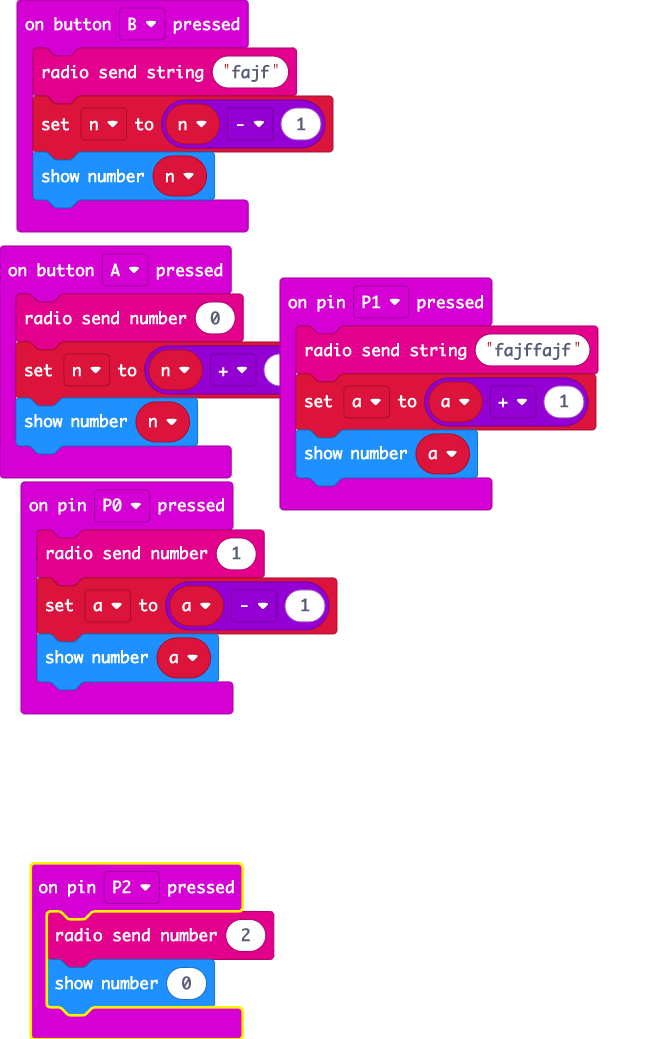
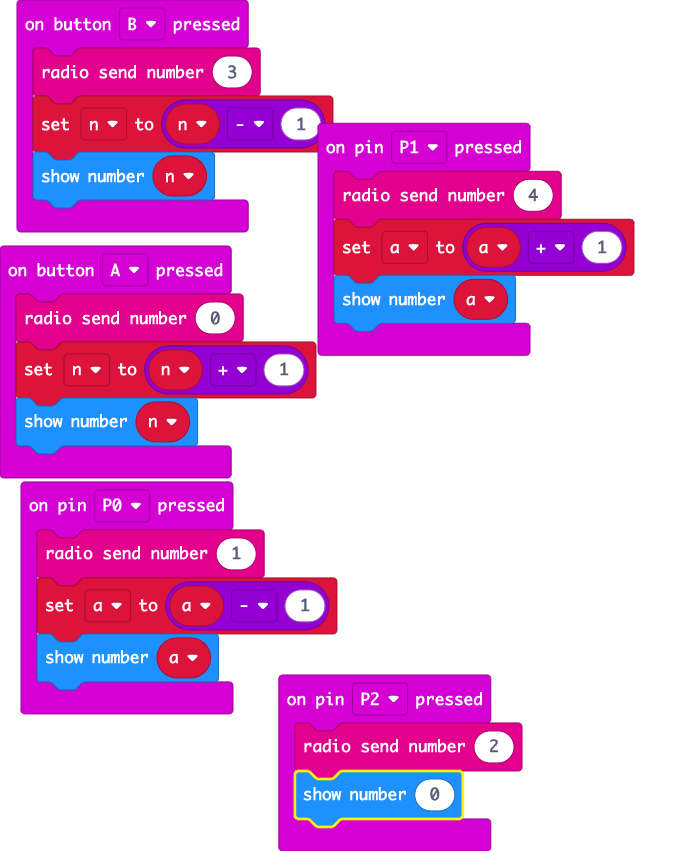
Update main.blocks, main.ts

diff --git a/main.ts b/main.ts
@@ -15,12 +15,12 @@ input.onPinPressed(TouchPin.P2, function () {
     basic.showNumber(0)
 })
 input.onButtonPressed(Button.B, function () {
-    radio.sendString("fajf")
+    radio.sendNumber(3)
     n = n - 1
     basic.showNumber(n)
 })
 input.onPinPressed(TouchPin.P1, function () {
-    radio.sendString("fajffajf")
+    radio.sendNumber(4)
     a = a + 1
     basic.showNumber(a)
 })
